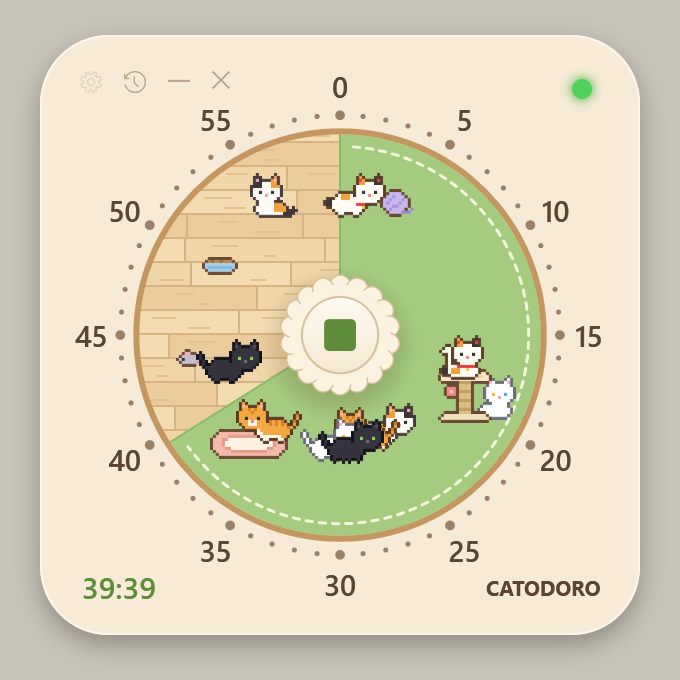
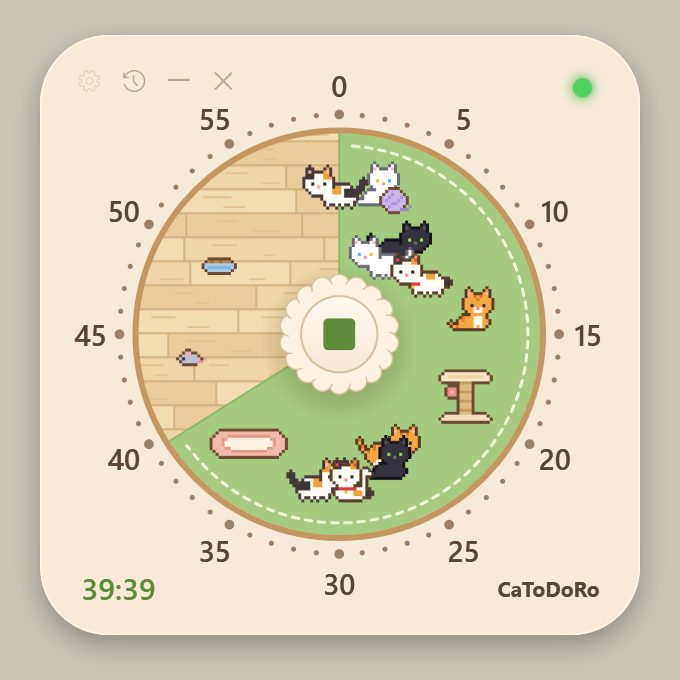
Style the name as CaToDoRo and add Microsoft Store packaging
Display name:
- Show "CaToDoRo" in the app (brand text, window titles, dialogs) and in
  the file's product name and description.
- The exe name, the settings folder and the repository URL stay
  "Catodoro", so existing data and download links keep working.
- Update the READMEs and retake their screenshots.

Microsoft Store:
- store/AppxManifest.xml: MSIX manifest template (full-trust desktop app,
  en-US and ko-KR).
- store/build-msix.ps1: builds the app, exports the logos and packs
  store/out/Catodoro_<version>_x64.msix.
- store/identity.json: placeholder identity; replace it with the values
  from Partner Center before submitting.
- store/listing.md and store/screenshots: listing text and 1920x1080
  screenshots in Korean and English.
- PRIVACY.md: privacy policy (no data is collected or sent).
- --export-assets now also writes the Store logo set.

diff --git a/src/MainWindow.xaml b/src/MainWindow.xaml
@@ -2,7 +2,7 @@
         xmlns="http://schemas.microsoft.com/winfx/2006/xaml/presentation"
         xmlns:x="http://schemas.microsoft.com/winfx/2006/xaml"
         xmlns:local="clr-namespace:Catodoro"
-        Title="Catodoro" Width="340" Height="340"
+        Title="CaToDoRo" Width="340" Height="340"
         WindowStyle="None" AllowsTransparency="True" Background="Transparent"
         ResizeMode="CanMinimize" UseLayoutRounding="True"
         FontFamily="Segoe UI, Malgun Gothic">
@@ -115,7 +115,7 @@
                 <TextBlock x:Name="TimeText" Text="25:00" FontSize="15" FontWeight="SemiBold"
                            Foreground="{StaticResource AccentDarkBrush}"
                            HorizontalAlignment="Left" VerticalAlignment="Bottom" Margin="20,0,0,13"/>
-                <TextBlock x:Name="Brand" Text="CATODORO" FontSize="10.5" FontWeight="Bold"
+                <TextBlock x:Name="Brand" Text="CaToDoRo" FontSize="10.5" FontWeight="Bold"
                            Foreground="{StaticResource InkBrush}"
                            HorizontalAlignment="Right" VerticalAlignment="Bottom" Margin="0,0,19,16"/>
 

diff --git a/src/SettingsWindow.xaml b/src/SettingsWindow.xaml
@@ -1,7 +1,7 @@
 <Window x:Class="Catodoro.SettingsWindow"
         xmlns="http://schemas.microsoft.com/winfx/2006/xaml/presentation"
         xmlns:x="http://schemas.microsoft.com/winfx/2006/xaml"
-        Title="Catodoro" Width="400" Height="560" ResizeMode="NoResize"
+        Title="CaToDoRo" Width="400" Height="560" ResizeMode="NoResize"
         WindowStartupLocation="CenterScreen" Background="#F8EEDC"
         FontFamily="Segoe UI, Malgun Gothic" FontSize="13" UseLayoutRounding="True">
 

diff --git a/src/HistoryWindow.xaml b/src/HistoryWindow.xaml
@@ -1,7 +1,7 @@
 <Window x:Class="Catodoro.HistoryWindow"
         xmlns="http://schemas.microsoft.com/winfx/2006/xaml/presentation"
         xmlns:x="http://schemas.microsoft.com/winfx/2006/xaml"
-        Title="Catodoro" Width="400" Height="620" ResizeMode="NoResize"
+        Title="CaToDoRo" Width="400" Height="620" ResizeMode="NoResize"
         WindowStartupLocation="CenterScreen" Background="#F8EEDC"
         FontFamily="Segoe UI, Malgun Gothic" FontSize="13" UseLayoutRounding="True">
 

diff --git a/src/AssetExporter.cs b/src/AssetExporter.cs
@@ -16,6 +16,29 @@ namespace Catodoro
             Directory.CreateDirectory(dir);
             SavePng(RenderSpriteSheet(8), Path.Combine(dir, "sprites.png"));
             WriteIco(Path.Combine(dir, "catodoro.ico"), new[] { 256, 64, 48, 32, 24, 16 });
+            ExportStoreLogos(Path.Combine(dir, "store"));
+        }
+
+        /// <summary>
+        /// Microsoft Store 패키지(MSIX)에 넣는 로고들. 파일 이름의 scale-/targetsize- 부분은
+        /// 윈도우가 화면 배율과 쓰임새에 맞는 그림을 고를 때 쓰는 약속된 표기다.
+        /// </summary>
+        static void ExportStoreLogos(string dir)
+        {
+            Directory.CreateDirectory(dir);
+            void Save(string name, int size) => SavePng(RenderIcon(size), Path.Combine(dir, name + ".png"));
+
+            foreach (int scale in new[] { 100, 200, 400 })
+            {
+                Save($"Square44x44Logo.scale-{scale}", 44 * scale / 100);
+                Save($"Square150x150Logo.scale-{scale}", 150 * scale / 100);
+                Save($"StoreLogo.scale-{scale}", 50 * scale / 100);
+            }
+            // 작업 표시줄·시작 메뉴 목록용(바탕판 없이 그림만)
+            foreach (int size in new[] { 16, 24, 32, 48, 256 })
+                Save($"Square44x44Logo.targetsize-{size}_altform-unplated", size);
+            // 스토어 소개 페이지에 올리는 정사각형 아이콘
+            Save("StoreListingIcon-300", 300);
         }
 
         /// <summary>초록색 원 위에 치즈 고양이가 서 있는 아이콘.</summary>
@@ -82,14 +105,14 @@ namespace Catodoro
             }
         }
 
-        /// <summary>창 전체를 회색 바탕 위에 그려 PNG 로 저장한다(개발용 화면 확인).</summary>
-        public static void SaveVisual(FrameworkElement el, string path, double scale = 2)
+        /// <summary>창 전체를 바탕색(기본은 회색) 위에 그려 PNG 로 저장한다(개발용 화면 확인).</summary>
+        public static void SaveVisual(FrameworkElement el, string path, double scale = 2, Color? background = null)
         {
             double w = el.ActualWidth, h = el.ActualHeight;
             var dv = new DrawingVisual();
             using (DrawingContext dc = dv.RenderOpen())
             {
-                dc.DrawRectangle(new SolidColorBrush(Color.FromRgb(0xC9, 0xC4, 0xB8)), null, new Rect(0, 0, w, h));
+                dc.DrawRectangle(new SolidColorBrush(background ?? Color.FromRgb(0xC9, 0xC4, 0xB8)), null, new Rect(0, 0, w, h));
                 dc.DrawRectangle(new VisualBrush(el) { Stretch = Stretch.None }, null, new Rect(0, 0, w, h));
             }
             var rtb = new RenderTargetBitmap((int)(w * scale), (int)(h * scale), 96 * scale, 96 * scale, PixelFormats.Pbgra32);

diff --git a/src/Lang.cs b/src/Lang.cs
@@ -91,11 +91,11 @@ namespace Catodoro
             ["toast.blocked"] = ("'{0}' 차단!\n이번에는 고양이가 오지 않아요", "Blocked '{0}'!\nNo cat this time"),
             ["toast.setTime"] = ("다이얼을 돌려 시간을 맞춰 주세요", "Turn the dial to set a time"),
 
-            ["app.running"] = ("Catodoro가 이미 실행 중이에요.", "Catodoro is already running."),
+            ["app.running"] = ("CaToDoRo가 이미 실행 중이에요.", "CaToDoRo is already running."),
 
             // ── 기록 창 ──
             ["tip.history"] = ("집중 기록", "Focus history"),
-            ["hist.window"] = ("Catodoro 기록", "Catodoro History"),
+            ["hist.window"] = ("CaToDoRo 기록", "CaToDoRo History"),
             ["hist.heading"] = ("집중 기록", "Focus history"),
             ["hist.today"] = ("오늘", "Today"),
             ["hist.week"] = ("최근 7일", "Last 7 days"),
@@ -112,7 +112,7 @@ namespace Catodoro
             ["hist.close"] = ("닫기", "Close"),
 
             // ── 설정 창 ──
-            ["set.window"] = ("Catodoro 설정", "Catodoro Settings"),
+            ["set.window"] = ("CaToDoRo 설정", "CaToDoRo Settings"),
             ["set.heading"] = ("차단 목록", "Block list"),
             ["set.intro"] = ("집중 시간 동안 아래 프로그램과 사이트는 열 수 없어요. 열려고 하면 바로 닫히고, 그 회차에는 고양이가 오지 않아요.",
                              "During focus time the programs and sites below can't be opened. If you try, they are closed right away and no cat comes for that session."),

diff --git a/src/MainWindow.xaml.cs b/src/MainWindow.xaml.cs
@@ -369,7 +369,7 @@ namespace Catodoro
                     After(500, () =>
                     {
                         if (opt.Screenshot != null)
-                            AssetExporter.SaveVisual((FrameworkElement)hist.Content, opt.Screenshot + ".history.png");
+                            AssetExporter.SaveVisual((FrameworkElement)hist.Content, opt.Screenshot + ".history.png", 2, (hist.Background as SolidColorBrush)?.Color);
                         hist.Close();
                     });
                     break;
@@ -393,7 +393,7 @@ namespace Catodoro
                     After(500, () =>
                     {
                         if (opt.Screenshot != null)
-                            AssetExporter.SaveVisual((FrameworkElement)dlg.Content, opt.Screenshot + ".settings.png");
+                            AssetExporter.SaveVisual((FrameworkElement)dlg.Content, opt.Screenshot + ".settings.png", 2, (dlg.Background as SolidColorBrush)?.Color);
                         dlg.Close();
                     });
                     break;

diff --git a/src/App.cs b/src/App.cs
@@ -120,7 +120,7 @@ namespace Catodoro
                 singleInstance = new Mutex(true, "Catodoro.SingleInstance", out bool created);
                 if (!created)
                 {
-                    MessageBox.Show(Lang.T("app.running"), "Catodoro", MessageBoxButton.OK, MessageBoxImage.Information);
+                    MessageBox.Show(Lang.T("app.running"), "CaToDoRo", MessageBoxButton.OK, MessageBoxImage.Information);
                     Shutdown();
                     return;
                 }

diff --git a/src/SettingsWindow.xaml.cs b/src/SettingsWindow.xaml.cs
@@ -88,7 +88,7 @@ namespace Catodoro
 
         void Info(string key)
         {
-            MessageBox.Show(this, Lang.T(key), "Catodoro", MessageBoxButton.OK, MessageBoxImage.Information);
+            MessageBox.Show(this, Lang.T(key), "CaToDoRo", MessageBoxButton.OK, MessageBoxImage.Information);
         }
 
         // ───────── 프로그램 ─────────

diff --git a/store/listing.md b/store/listing.md
@@ -1,0 +1,97 @@
+# Microsoft Store 제출용 글
+
+Partner Center의 제출 화면에 붙여 넣을 내용입니다. 화면 캡처는 `store/screenshots/ko`, `store/screenshots/en`에 있고(1920×1080), 패키지는 `store/build-msix.ps1`로 만듭니다.
+
+## 제품 설정
+
+| 항목 | 값 |
+| --- | --- |
+| 범주 | 생산성 (Productivity) |
+| 가격 | 직접 정함 (참고: 비슷한 아이폰용 유료 앱이 $3.99) |
+| 개인정보 처리방침 URL | `https://github.com/yeojin5/catodoro/blob/main/PRIVACY.md` (저장소를 비공개로 돌리면 다른 곳에 올려야 함) |
+| 지원 연락처 | `https://github.com/yeojin5/catodoro/issues` |
+| 패키지 | `store/out/Catodoro_<버전>_x64.msix` |
+
+## 제한된 기능(runFullTrust) 사용 이유
+
+제출할 때 "이 기능이 왜 필요한가"를 묻습니다. 아래를 붙여 넣으세요.
+
+> CaToDoRo is a classic Win32 (WPF, .NET Framework 4.8) desktop app packaged as MSIX. It needs runFullTrust to do its core job as a focus timer: during a focus session it closes the programs the user put on their own block list, and it reads the address of the visible browser tab through UI Automation so it can close tabs for sites on the user's block list. Nothing is sent off the device.
+
+## 인증 참고 사항 (Notes for certification)
+
+> No account or sign-in is needed. To test: turn the dial to set a time (or use the mouse wheel), then click the knob in the center to start. To test blocking, open the gear icon, add a program (for example notepad.exe) or a site, start a session, then try to open it; it is closed and the indicator light turns red. The app only acts on items the user added to the block list, and only while a session is running.
+
+## 한국어 (ko-KR)
+
+**제품 이름**: CaToDoRo (Partner Center에서 이름을 예약할 때 이 표기 그대로 입력)
+
+**짧은 설명**
+
+> 고양이가 돌아다니는 뽀모도로 타이머. 집중하는 동안 딴짓할 프로그램과 사이트를 막아 주고, 끝까지 해내면 픽셀 고양이가 놀러 옵니다.
+
+**설명**
+
+> 다이얼을 돌려 집중 시간을 맞추고 가운데 버튼을 누르면 시작합니다.
+>
+> 집중하는 동안에는 내가 고른 프로그램과 사이트가 열리지 않습니다. 열려고 하면 바로 닫히고, 그 회차에는 고양이가 오지 않습니다. 끝까지 참으면 픽셀 고양이 한 마리가 타이머 안의 나무 바닥 놀이터로 놀러 옵니다.
+>
+> 고양이는 네 종류이고, 10% 확률로 행운의 고양이 복냥이가 옵니다. 모인 고양이들은 놀이터를 돌아다니다가 방석에 들어가 앉거나 캣타워 위로 뛰어올라 쉽니다.
+>
+> 관리자 권한이 필요 없고, 인터넷에 접속하지 않으며, 계정도 광고도 없습니다. 모든 기록은 내 PC에만 저장됩니다.
+
+**주요 기능** (한 줄씩 입력)
+
+- 다이얼을 돌려 0~60분 집중 시간 설정
+- 집중하는 동안 내가 고른 프로그램과 사이트 차단
+- 끝까지 집중하면 픽셀 고양이가 한 마리씩 추가
+- 10% 확률로 행운의 고양이 등장
+- 오늘·최근 7일·전체 집중 기록과 그래프
+- 한국어·영어 지원, 항상 위에 표시
+
+**검색어**: 뽀모도로, 집중 타이머, 고양이, 사이트 차단, 공부 타이머, 픽셀
+
+**화면 캡처 설명** (`store/screenshots/ko`)
+
+1. 다이얼을 돌려 집중 시간을 맞춥니다
+2. 시간이 가면 초록 러그가 줄어듭니다
+3. 끝까지 집중하면 고양이가 놀러 옵니다
+4. 집중 기록을 한눈에 봅니다
+5. 집중하는 동안 막을 프로그램과 사이트를 고릅니다
+
+## English (en-US)
+
+**Product name**: CaToDoRo
+
+**Short description**
+
+> A Pomodoro timer where pixel cats wander around. It blocks the programs and sites that distract you while you focus, and a cat moves in each time you make it to the end.
+
+**Description**
+
+> Turn the dial to set your focus time and press the knob in the center to start.
+>
+> While you focus, the programs and sites you chose will not open. If you try, they are closed right away and no cat comes for that session. Hold out to the end and a pixel cat comes to live in the wood-floor playground inside the timer.
+>
+> There are four kinds of cats, plus a 10% chance of the lucky cat Boknyang. Your cats wander around the playground, curl up on the cushion and hop onto the cat tower.
+>
+> No administrator rights, no internet connection, no account and no ads. Everything stays on your PC.
+
+**Features** (one per line)
+
+- Turn the dial to set a focus time from 0 to 60 minutes
+- Blocks the programs and sites you choose while you focus
+- A new pixel cat joins each time you finish a session
+- 10% chance of a lucky cat
+- Focus history for today, the last 7 days and all time, with a chart
+- English and Korean, always-on-top option
+
+**Search terms**: pomodoro, focus timer, cat, website blocker, study timer, pixel art
+
+**Screenshot captions** (`store/screenshots/en`)
+
+1. Turn the dial to set your focus time
+2. The green rug shrinks as time passes
+3. Stay focused to the end and a cat moves in
+4. See your focus history at a glance
+5. Choose the programs and sites to block while you focus

diff --git a/PRIVACY.md b/PRIVACY.md
@@ -1,0 +1,37 @@
+# CaToDoRo 개인정보 처리방침 / Privacy Policy
+
+최종 수정: 2026-11-13 · Last updated: 2026-11-13
+
+## 한국어
+
+CaToDoRo는 사용자의 정보를 수집하거나 외부로 보내지 않습니다. 앱은 인터넷에 접속하지 않으며, 계정·광고·분석 도구가 없습니다.
+
+**앱이 하는 일**
+
+- **차단 목록의 프로그램 확인**: 집중 시간 동안 실행 중인 프로그램의 이름을 확인해, 사용자가 차단 목록에 넣은 프로그램이면 종료합니다.
+- **차단 목록의 사이트 확인**: 집중 시간 동안 브라우저 창에 지금 보이는 탭의 주소를 읽어, 사용자가 차단 목록에 넣은 사이트이면 그 탭을 닫습니다. 읽은 주소는 그 자리에서 비교에만 쓰고 저장하거나 전송하지 않습니다.
+
+**이 PC에만 저장되는 것**
+
+설정(차단 목록, 언어, 창 위치), 모은 고양이, 집중 기록(시작 시각, 길이, 결과, 차단 횟수)이 사용자 PC의 앱 데이터 폴더에 저장됩니다. 방문한 사이트 주소나 실행한 프로그램 목록은 저장하지 않습니다. 앱을 제거하거나 해당 파일을 지우면 모두 삭제됩니다.
+
+**문의**
+
+[GitHub 이슈](https://github.com/yeojin5/catodoro/issues)에 남겨 주세요.
+
+## English
+
+CaToDoRo does not collect your information or send it anywhere. The app does not connect to the internet and has no accounts, ads or analytics.
+
+**What the app does**
+
+- **Checks programs on your block list**: during a focus session it looks at the names of running programs and closes the ones you put on your block list.
+- **Checks sites on your block list**: during a focus session it reads the address of the tab currently shown in each browser window and closes that tab if the site is on your block list. The address is only compared on the spot; it is not stored or transmitted.
+
+**What is stored, on this PC only**
+
+Your settings (block list, language, window position), the cats you collected and your focus history (start time, length, result, number of blocked attempts) are saved in the app data folder on your PC. The sites you visit and the programs you run are not recorded. Uninstalling the app or deleting that file removes everything.
+
+**Contact**
+
+Please open a [GitHub issue](https://github.com/yeojin5/catodoro/issues).

diff --git a/README.en.md b/README.en.md
@@ -1,4 +1,4 @@
-# Catodoro 🐈
+# CaToDoRo 🐈
 
 [한국어](README.md) | **English**
 
@@ -41,7 +41,7 @@ Focus time counts only sessions you finished; sessions you stopped early appear 
 
 - **Programs**: an exe on the list is terminated as soon as it starts.
   Ones that were already running when the session started are closed without counting as an attempt.
-- **Sites**: Catodoro reads the address of the tab currently shown in each browser window and closes that tab if its domain is on the list.
+- **Sites**: CaToDoRo reads the address of the tab currently shown in each browser window and closes that tab if its domain is on the list.
   Only the address you list is blocked. `youtube.com` blocks YouTube (including its www and mobile addresses), while subdomains such as `music.youtube.com` stay open.
   To block every subdomain as well, put `*.` in front, as in `*.naver.com`.
   It needs no administrator rights and does not touch the hosts file.
@@ -50,7 +50,7 @@ Focus time counts only sessions you finished; sessions you stopped early appear 
 ### Good to know
 
 - Only the **visible tab** of each window is checked. A background tab or a minimized window is handled when you switch to it.
-- Ending Catodoro from Task Manager lifts the block. It is a tool to help your willpower, not a security tool.
+- Ending CaToDoRo from Task Manager lifts the block. It is a tool to help your willpower, not a security tool.
 - Programs running as administrator may not be terminated.
 - Settings, cats and focus history are saved in `%AppData%\Catodoro\settings.json`.
 

diff --git a/README.md b/README.md
@@ -1,4 +1,4 @@
-# Catodoro 🐈
+# CaToDoRo 🐈
 
 **한국어** | [English](README.en.md)
 
@@ -52,7 +52,7 @@
 ### 알아 둘 점
 
 - 사이트는 **화면에 보이는 탭**만 검사합니다. 뒤에 숨은 탭이나 최소화된 창은 그 탭을 볼 때 닫힙니다.
-- 작업 관리자에서 Catodoro 를 강제 종료하면 차단도 풀립니다. 의지를 돕는 도구이지 보안 도구가 아닙니다.
+- 작업 관리자에서 CaToDoRo 를 강제 종료하면 차단도 풀립니다. 의지를 돕는 도구이지 보안 도구가 아닙니다.
 - 관리자 권한으로 실행된 프로그램은 종료하지 못할 수 있습니다.
 - 설정, 고양이, 집중 기록은 `%AppData%\Catodoro\settings.json` 에 저장됩니다.
 
